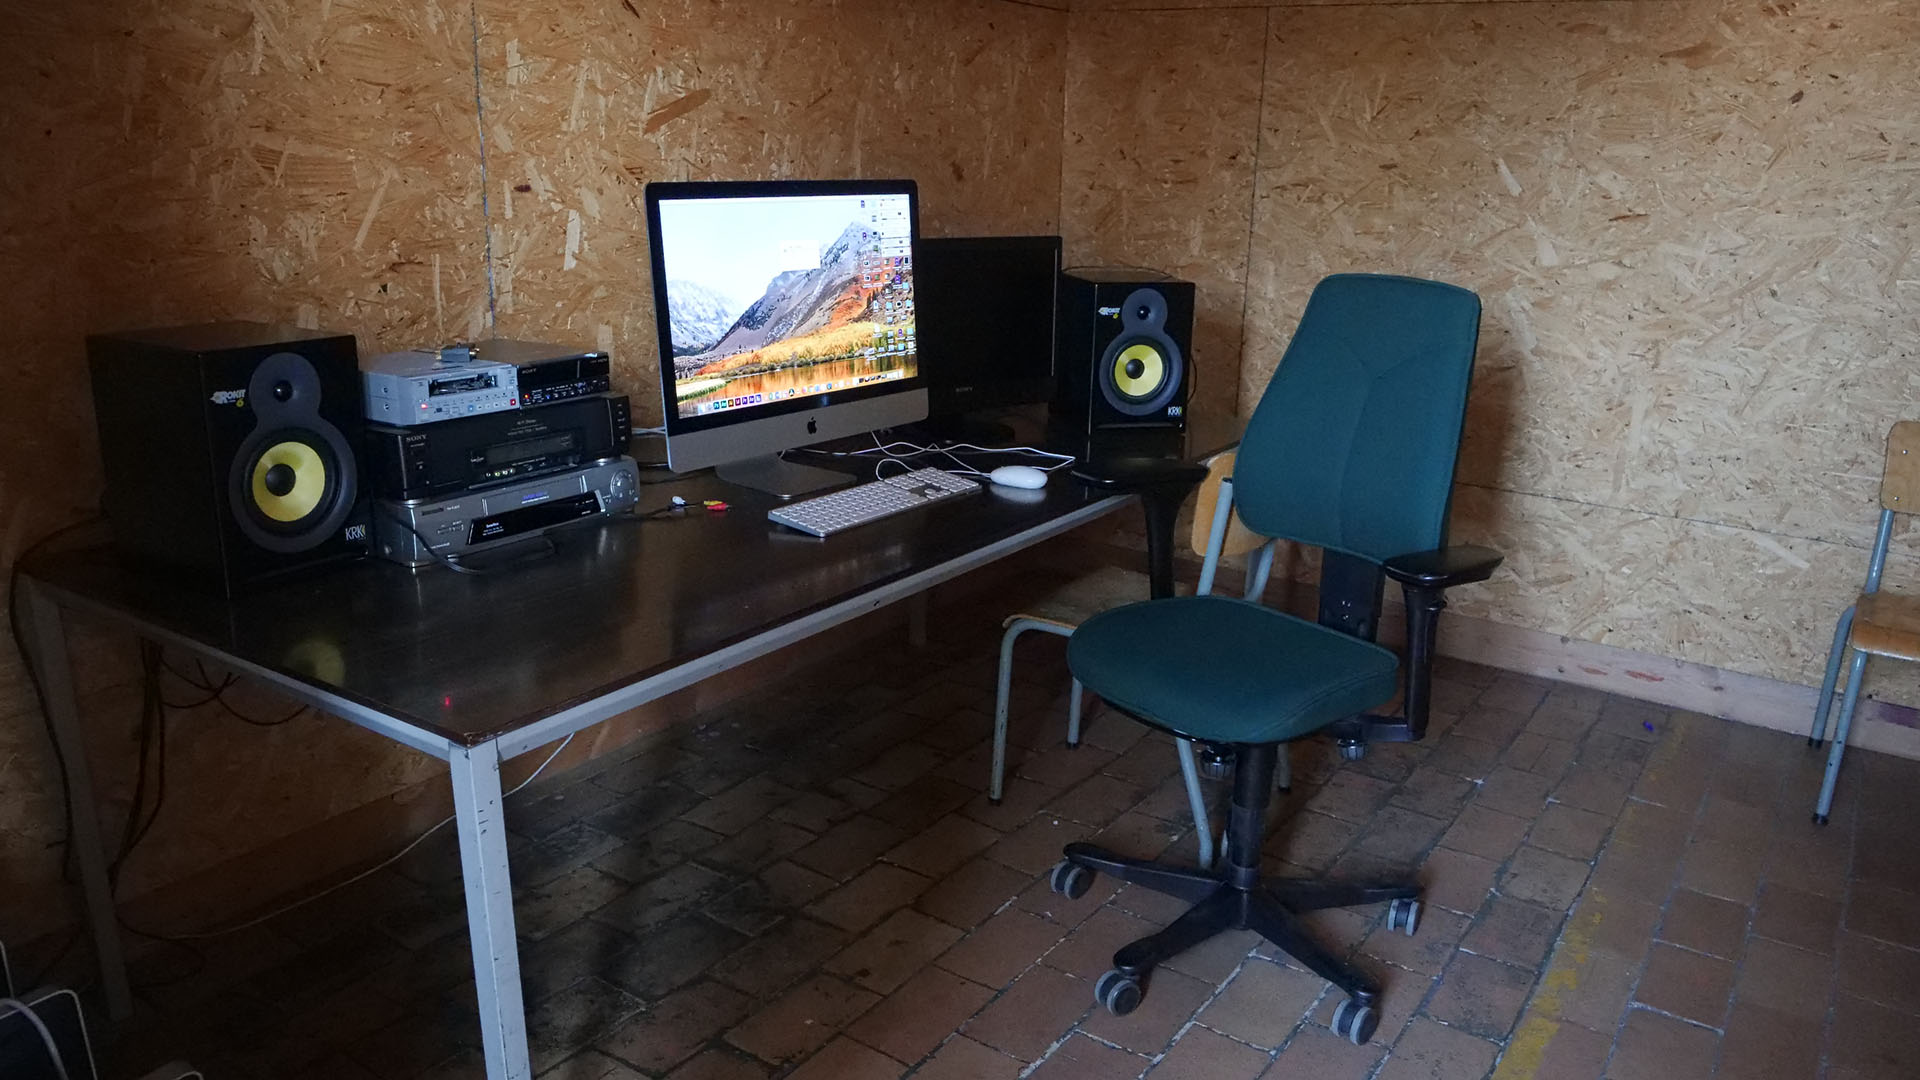
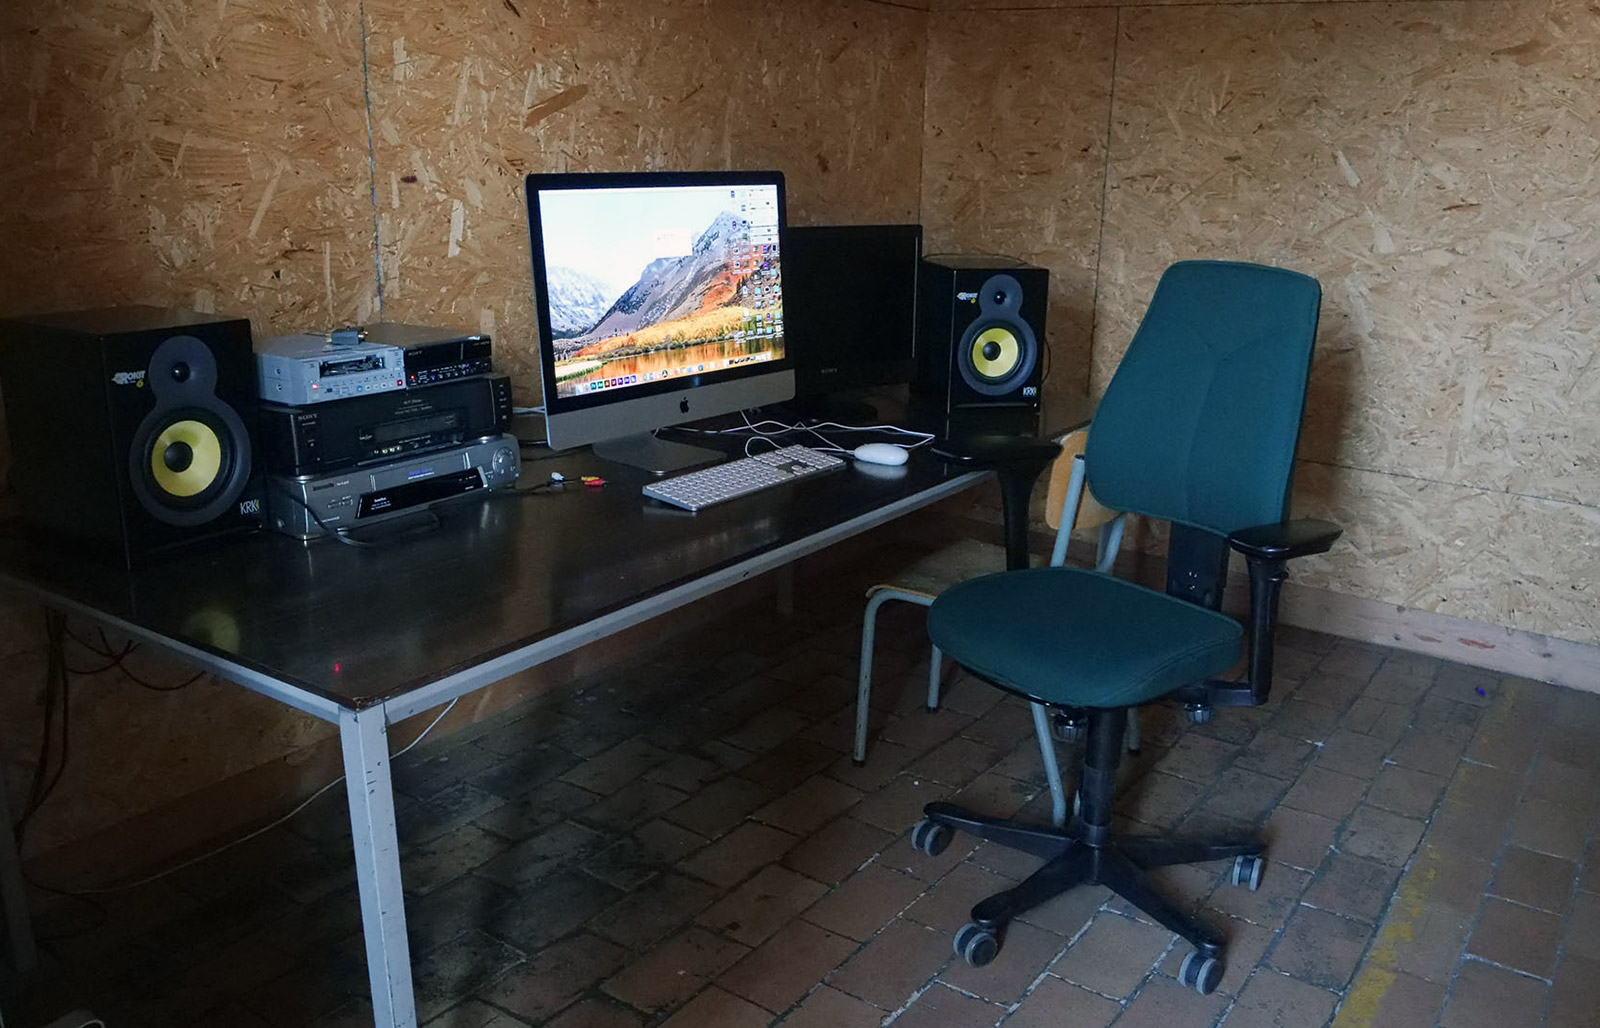
1e update faciliteiten

diff --git a/themes/quark/css/custom.css b/themes/quark/css/custom.css
@@ -54,18 +54,6 @@ a:visited {
   color: #07cb1a;
 }
 
-h2 a {
-  xcolor: #03e319;
-  text-decoration: wavy;
-  background: linear-gradient(135deg, #00f9ff 0%, #03e319 100%);
-  background-clip: text;
-  -webkit-background-clip: text;
-  -moz-background-clip: text;
-  text-fill-color: transparent;
-  -webkit-text-fill-color: transparent;
-  -moz-text-fill-color: transparent;
-}
-
 .treemenu li a:hover, .treemenu li a:focus, .treemenu li a.active {
   color: #03e319 !important;
   text-decoration: none;

diff --git a/pages/04.atelier/default.md b/pages/04.atelier/default.md
@@ -3,63 +3,15 @@ title: Atelier
 ---
 
 # ATELIER
-Het atelier mediakunst is een plaats voor educatie, creatie en productie. Deze ruimte werd ca. 13 jaar terug in gebruik genomen en evolueert met de opleiding mee. Het is een werkplaats met een aantal gespecialiseerde werkruimtes voor o.a. video montage, audio en muziek, VR, AI, elektronica, een blackbox & daglicht presentatieruimte en de 2 onderzoek labo’s: [Formlab](https://www.formlab.schoolofarts.be/) en [Laboratorium](http://laboratorium.bio/).
 
-## ☞ [faciliteiten](faciliteiten)    
-    
+![Atelier Mediakunst](atelier0.jpg)
+
+Het atelier mediakunst is een plaats voor educatie, creatie en productie. Deze eerste verdieping van de Kunsttoren werd zo'n 10 jaar terug in gebruik genomen en evolueert met de opleiding mee. Het is een werkplaats met een aantal gespecialiseerde werkruimtes voor o.a. videomontage, audio en muziek, VR, AI, elektronica, een blackbox & daglicht presentatieruimte en de 2 onderzoek labo’s: [Formlab](https://www.formlab.schoolofarts.be/) en [Laboratorium](http://laboratorium.bio/).
+
+## ☞ [faciliteiten](faciliteiten)
+
+![Atelier Mediakunst](atelier1.jpg)
+
 Het atelier is leer- en werkplaats die zelf ook dagelijks wordt gevormd en onderhouden door ons, gebruikers, docenten, onderzoekers en studenten. Daarom deze oproep! Waaraan je ook werkt, wat je ook doet, Mediakunst, het traject en het atelier, kan het alleen mogelijk voor jou maken, als jij het ook mogelijk maakt voor mediakunst. Mediakunst is er voor jou en jij bent er voor mediakunst. We sluiten niets en niemand uit, in plaats daarvan moedigen we verschillen in middelen, capaciteiten, interesses, achtergronden en kennis juist aan. Alle studenten en personeelsleden dragen bij aan de cultuur van zorg op deze school.
 
-## ☞ [gedragscode](gedragscode)    
-
-<!--
-## AFSPRAKEN
-We laten ons leiden door een aantal afspraken:
-
-! Respecteer de ruimte en middelen.
-Hou materialen, gereedschap en ruimtes beschikbaar. Zet alles na gebruik terug op de juiste plaats.
-
-! Respecteer de anderen.
-Denk bij elke stap, bij elke kleine of grote daad die je stelt even na wat het mogelijke directe gevolg is voor anderen. Indien je het gevoel hebt dat dit storend kan zijn ga je het gesprek aan met de betrokkenen. Het is niet zo dat er niets kan, veel dingen kunnen juist wel als er over gecommuniceerd wordt.
-
-! Laat geen sporen na.
-Laat de gedeelde ruimtes proper achter. Sporen zijn ongewenste of ongevraagde materiële of immateriële achterblijfsels. In je eigen werkruimte, op je eigen computer ben je baas zolang het veilig en hygiënisch blijft.
-
-! Maak dingen mogelijk voor anderen.
-Zie je tijd in het atelier ook als een kans om je open te stellen naar anderen, door te helpen, een discussie op gang te brengen, de keuken op te ruimen, een evenement te organiseren, ...
-
-! Asymmetrieën in de geest.
-Mensen komen van verschillende plaatsen, bewonen verschillende lichamen, hebben verschillende ervaringen, bevinden zich anders in machtsstructuren en hebben verschillende grenzen. Hou daar rekening mee, daag je eigen positie uit en laat je uitdagen, met respect voor de grenzen van anderen.    
-
-Zie deze regels als onderling verbonden.     
-<span class="text-tiny">Geïnspireerd op <a href="http://www.pa-f.net/basics">pa-f</a></span>
-
-
-## GEDRAGSCODE
-Deze gedragscode bepaalt en communiceert de verbintenis van de gemeenschap om een aantal normen en verplichtingen na te leven die van het atelier en de opleiding een vriendelijke en gastvrije omgeving moeten maken.    
-
-Onderstaande lijst voorschriften is integraal overgenomen van de [Richtlijnen voor Samenwerking](https://constantvzw.org/site/Richtlijnen-voor-samenwerking-een-update.html?lang=nl?w=https://constantvzw.org/wefts/orientationspourcollaboration.nl.html) (korte versie) van [Constant vzw](https://constantvzw.org/).
-> Deze richtlijnen stellen geen harde grenzen. Ze buigen en bewegen maar tegelijkertijd moeten ze houvast bieden wanneer nodig. De tekst wordt voortdurend bijgesteld om open te staan voor correcties en verandering.    
-
-Deze *overname* is een eerste versie die binnen de context van mediakunst gehanteerd kan worden. Misschien zijn er wel snel aanpassingen nodig en is er de noodzaak om te reflecteren wat in het atelier urgent en essentieel is. De onderwijscontext verschilt namelijk met die van een kunstenorganisatie als Constant vzw. We nodigen jullie van harte uit om commentaren, bedenkingen, instructies, verwachtingen en codes [hier](https://leper.noho.st/pad/p/2021_MK_intern_gedragscode) achter te laten.
-
-Mediakunst docenten, onderzoekers, medewerkers, studenten en bezoekers:
-- Weigeren en ontmantelen racisme, queer antagonisme, validisme, leeftijdsdiscriminatie en andere vormen van onderdrukking.
-- Geven ruimte aan anderen: Zowel fysiek, emotioneel als conceptueel
-- Respecteren andere levens, aanwezig of niet, menselijk of niet.
-- Dragen zorg voor hun fysieke en digitale omgeving.
-- Vermijden voor anderen te spreken.
-- Proberen niet te oordelen.
-- Nemen de tijd om te luisteren.
-- Vragen voordat ze iets veronderstellen.
-- Verwelkomen meervoudige methodes om te (ont)leren en om kennis, informatie en ervaring uit te wisselen.
-- Accepteren en waarderen verschil, verschillende snelheden en standpunten, opvattingen, ervaringen, achtergronden, referenties, behoeften en grenzen.
-- Erkennen dat woorden en uitspraken verschillende betekenissen en consequenties hebben voor verschillende mensen.
-- Letten op taalverschillen. Dit is een meertalige omgeving.
-- Gebruiken waar mogelijk Vrije en Open Source software.
-- Onderschrijven dat Constant als standaardlicentie een Free Art License gebruikt.
-- Vragen expliciet om toestemming voordat ze foto’s, video, audio of andere opnames via commerciële platvormen verspreiden.
-- Weten dat het toepassen van deze richtlijnen gemakkelijker gezegd is dan gedaan.
-- Intimidatie is onaanvaardbaar
-
-Er werd door KASK & Conservatorium een kader opgesteld m.b.t. grensoverschrijdend gedrag. Meer info over dit kader, contact gegevens van de ombudspersonen binnen de school en in het werkveld vind je [hier](https://schoolofartsgent.be/nl/over-ons/cultuur-van-zorg/grensoverschrijdend-gedrag/) terug.
--->
+## ☞ [gedragscode](gedragscode)

diff --git a/pages/04.atelier/faciliteiten/default.md b/pages/04.atelier/faciliteiten/default.md
@@ -6,25 +6,100 @@ routable: true
 visible: true
 ---
 ## FACILITEITEN
-todo
+
 ### Atelier
-todo
+Het atelier mediakunst bevindt zich op de 1e verdieping van de Kunsttoren. De oorspronkelijke functie van het gebouwd was een textielschool, iets dat zich nog nog erg duidelijk laat zien in de architectuur.     
+
+![atelier mediakunst](uitkijk.jpg)
+
+#### Adres
+Offerlaan 5    
+9000 Gent    
+[kaart](https://www.google.com/maps/dir//Offerlaan+5,+9000+Gent/@51.0442882,3.7048299,987m/data=!3m1!1e3!4m8!4m7!1m0!1m5!1m1!1s0x47c37166edf87939:0x9204369e1efa3c9f!2m2!1d3.7092073!2d51.0442883?hl=nl) & [bereikbaarheid](https://schoolofartsgent.be/nl/over-ons/locaties/campus-bijloke-de-kunsttoren#campus-bijloke-de-kunsttoren)
+![ingang kunsttoren](ingang_offerlaan.jpg)
+#### Openingsuren
+Tijdens het academiejaar is de Kunsttoren doorgaans open van ma-do 8:00 - 22:00 & op vr 8:00 - 18:30. Tijdens het weekend is het gebouw gesloten.
+
+Er kan een uitzondering op deze reguliere openingsuren worden aangevraagd via de coördinator van de opleiding.
+
+Alle campussen en gebouwen zijn gesloten tijdens het kerstreces en het zomerreces van midden juli tot midden augustus.
+
+#### Ruimtes Reserveren
+Je kan dagdelen reserveren in de verschillende gedeelde gespecialiseerde ruimtes als de daglicht presentatieruimte in het atelier, de Blackbox, Videomontage ruimte, Audiolab en VRlab. Voorlopig gebeurt het reserveren ter plaatse via een kalender.
+
+#### Beheer en Zorg
+**Respecteer ruimtes & middelen.** Hou materialen, gereedschap en ruimtes beschikbaar. Zet alles na gebruik terug op de juiste plaats.    
+**Laat geen sporen na. **Laat de gedeelde ruimtes proper achter. Sporen zijn ongewenste of ongevraagde materiële of immateriële achterblijfsels. In je eigen werkruimte, op je eigen computer ben je baas zolang het veilig en hygiënisch blijft.    
+**Draag zorg voor eigen en uitgeleend materiaal.** We beschouwen het atelier graag als een veilige plaats maar dat is het spijtig genoeg niet. Laat dus nooit waardevolle zaken achteloos achter. Maak gebruik van de locker.    
+**Draag zorg voor je files** Je kan files achterlaten op de gedeelde computers maar ze staan daar nooit 100% veilig. Zorg steeds voor een backup.     
+**Open en afsluiten van ruimtes.** Via de studenten- of personeelskaart (of een salto sleutelhanger) kunnen de ruimtes geopend en gesloten worden. Maak daar gebruik van zodat.    
+
 ### Blackbox
-todo
-### video montage
-todo
+De Blackbox is een polyvalente ruimte die gebruikt wordt voor screenings, lezingen, groepsgesprekken en atelier specifieke theorielessen. Studenten kunnen in deze plek ook opstellingen en performances oefenen en brengen, opnames maken, etc.
+
+![blackbox](blackbox.jpg)
+
+Afmetingen: ±11 bij 6 meter & 5,5 meter hoog.    
+Akoestische geoptimaliseerd met absorberende panelen en gordijnen.    
+video: [Panasonic PT-RZ470E](https://nl.business.panasonic.be/visual-system/sites/default/eu-files/visual-systems/files/technical_downloads/PT-RZ470E_E.pdf) projector (led/Laser DLP-projector)    
+geluid: [Yamaha STAGEPAS 400BT](https://usa.yamaha.com/files/download/other_assets/1/1142301/stagepas_600bt_en_om_c0.pdf) PA systeem (2 x 200watt, 8-channel mixer, Bluetooth, ...)    
+Er is in het atelier nog een 2e PA systeem voorhanden bestaande uit 2 [QSC K10.2](https://www.qsc.com/resource-files/productresources/spk/k.2/q_spk_k2_usermanual.pdf) actieve speakers (Multi-purpose, 2-way active loudspeaker, 2000 Watt Class-D amp, 10inch woofer).    
+licht: dimbare TL lampen & puntspot op spreker via schakelaar (Q1)
+
+### Videomontage
 ![videomontage](videomontage.jpg "videomontage")
-### audiolab
-todo
+De Videomontage ruimte is uitgerust met een krachtige Apple computer, een 2e beeldscherm en studiomonitors. Qua software is zowel een videopakket van Adobe met recente versies van Premiere Pro en After Effects geïnstalleerd als Apple Final Cut Pro en DaVinci Resolve van Blackmagic.    
+
+![videomontage](videomontage.jpg)
+
+Computer: Apple iMac 27" (3,8‐GHz 8‐core Intel Core i7-processor, 32Gb Ram, Radeon
+Pro 5700 XT met 16GB Ram  grafische kaart, AZERTY toetsenbord)    
+`user: schoolofarts – psw: 1111`    
+Tweede scherm: Sony    
+Geluid: KRK 6 Rokit studio monitors
+
+### Audio lab
+De audio werkplaats uitgerust met een Apple iMac computer, quadrofone luidspreker opstelling, een analoge synth van Doepfer. Qua software is er Ableton Live, Adobe Audition, Reaper & Max geïnstalleerd.
+
+
+![audiolab](audio.jpg)
+
+Computer: Apple iMac 27" (AZERTY toetsenbord) + RME Fireface geluidskaart    
+`user: schoolofarts – psw: 1111`    
+Geluid: Quadrofoon opstelling met 4 Adam T7V studio monitors, Adam T10 subwoofer, Mackie mixer    
+Instrumenten: Doepfer Modulaire synth, Koma ??    
+Software licenties: Max op iLok usb key. Er is geen Ableton Live.
+
 ### VR lab
-todo
-### elektronica Lab
-todo
-### AI
-todo
+
+Blender, Unity, Unreal, Adobe Premiere Pro en After Effects
+
+![VR lab](VR.jpg)
+
+
+Computer: Dell Alienware Aurora R10 (AMD Ryzen™ 9 5900X 12C, 32Gb Ram, NVIDIA® GeForce RTX™ 3090 24GB grafische kaart, AZERTY toetsenbord),     
+`user: schoolofarts – psw: 1111`    
+VR headsets:
+Geluid: Adam ?? studio monitors
+
+### Elektronica Lab
+
+![elektronica lab](elektronics.jpg)
+
+
+Arduino's, Raspberry Pi's 3B en 400, Pico
+<!--### AI
+todo-->
 ### keuken
-todo
+De mediakunst is een
+
 ### Formlab
-todo
+[Formlab](https://www.formlab.schoolofarts.be/) is een werkplaats die inzet op het overbruggen van het digitale naar het fysieke. Centraal staat het 3D-printen en -scannen maar er zijn ook mogelijkheden om te frezen en vacuümvormen.
+
+![formlab](formlab.jpg)
+
+
 ### Laboratorium
-todo
+[Laboratorium](http://laboratorium.bio/) is een experimenteel lab voor kunst/design en biotechnologie. Het organiseert workshops, lezingen en participeert in het academisch programma van KASK binnen de thema's als kleuren, biomaterialen, Art+Science en DIYbio.
+
+![laboratorium](laboratorium.jpg)
